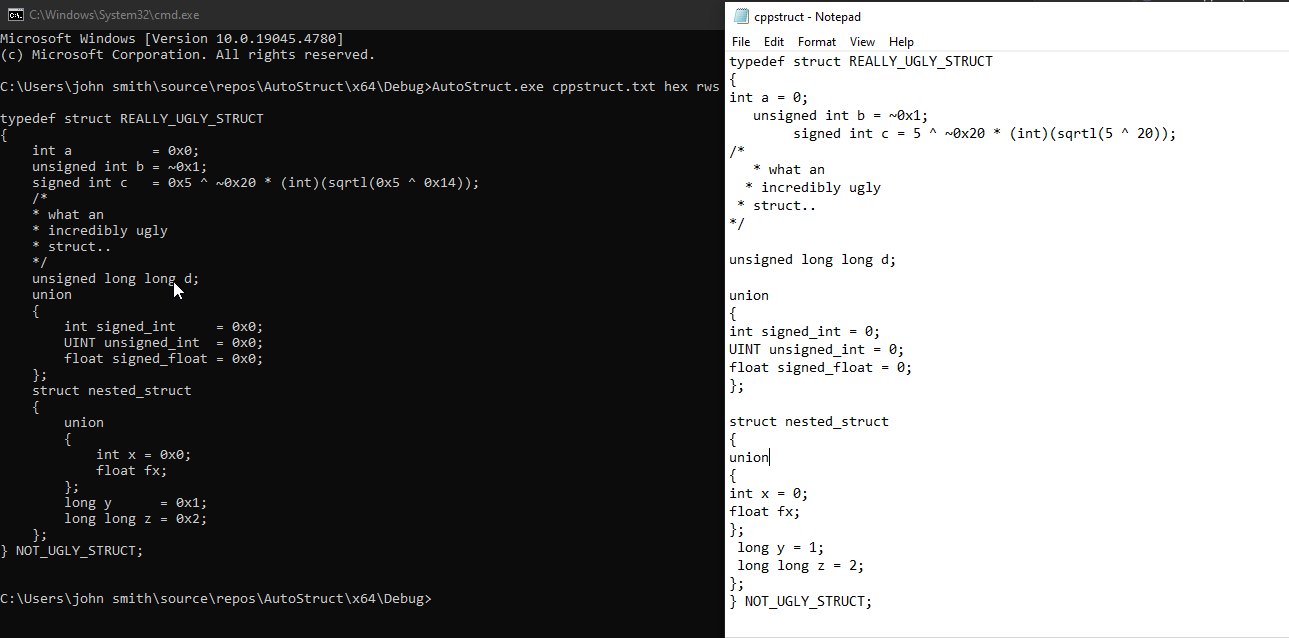
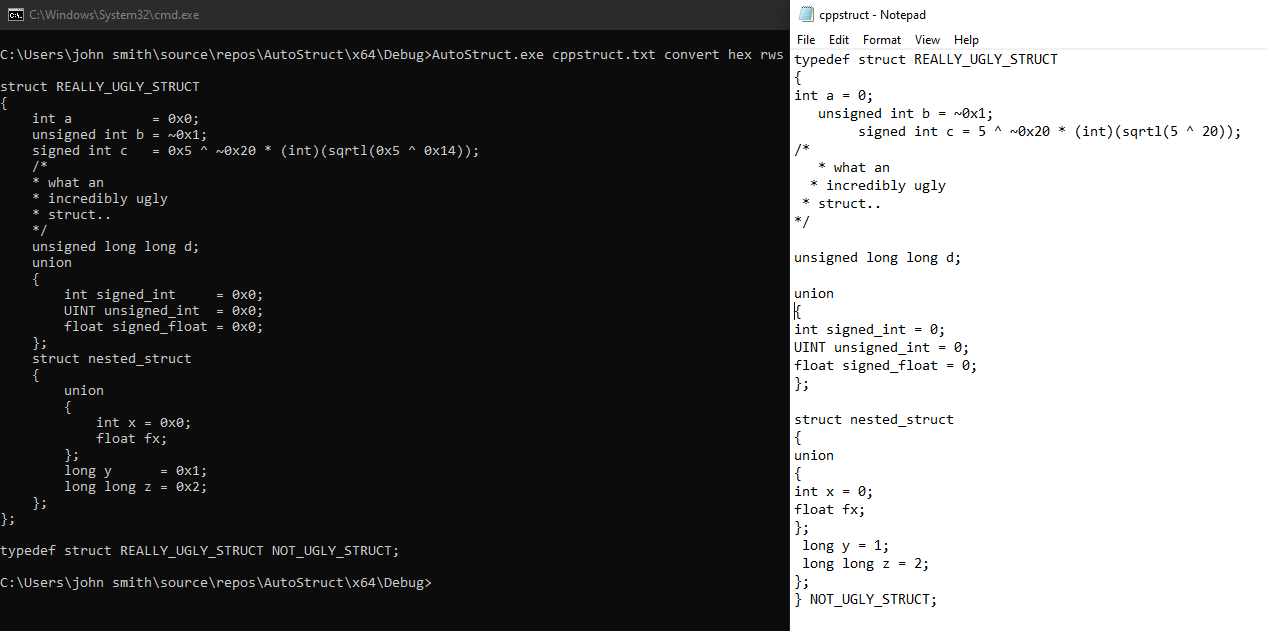
bug fixes and optimizations

diff --git a/AutoStruct/main.cpp b/AutoStruct/main.cpp
@@ -4,10 +4,10 @@
 
 enum PROCESSING_FLAGS
 {
-	DecToHex         = 1,
-	RemoveWhitespace = 2,
-	ConvertTypedef   = 4,
-	HasTypedef       = 8
+	DecToHex   = 1,
+	RemoveWs   = 2,
+	CppConversion     = 4,
+	HasTypedef = 8
 };
 
 struct LineData
@@ -21,18 +21,21 @@ void PrintCppData(std::vector<LineData>& lines, std::vector<size_t>& AlignmentVa
 	for (LineData& data : lines)
 	{
 		std::string& line = data.line;
-		const size_t EqualPos = line.find_first_of('=');
-		const size_t FurthestEqual = AlignmentValues[data.AlignmentIndex];
+		size_t EqualPos = line.find_first_of('=');
 
-		if (EqualPos != npos && EqualPos - 1 < FurthestEqual)
+		if (EqualPos != npos)
 		{
-			line.insert(EqualPos, FurthestEqual - EqualPos, ' ');
+			const size_t FurthestEqual = AlignmentValues[data.AlignmentIndex];
+			if (EqualPos - 1 < FurthestEqual)
+			{
+				line.insert(EqualPos, FurthestEqual - EqualPos, ' ');
+			}
 		}
-
+		
 		std::cout << line << '\n';
 	}
 
-	if (!(flags & HasTypedef) || flags & ConvertTypedef)
+	if (!(flags & HasTypedef) || flags & CppConversion)
 	{
 		std::cout << "};\n";
 	}
@@ -123,7 +126,7 @@ void HandleCppData(std::ifstream& file, std::string& line, int flags)
 			}
 			while (strcmp(line.substr(pos).c_str(), "*/"));
 		}
-		else if (flags & RemoveWhitespace && pos == npos && line.find(';') == npos && line.find('=') == npos && line.find('u') == npos && line.find('s') == npos && line.find('{') == npos)
+		else if (flags & RemoveWs && pos == npos && line.find(';') == npos && line.find('=') == npos && line.find('u') == npos && line.find('s') == npos && line.find('{') == npos)
 		{
 			continue;
 		}
@@ -153,16 +156,25 @@ void HandleCppData(std::ifstream& file, std::string& line, int flags)
 		// Aligning members and converting decimal values to hex if requested
 
 		pos = line.find_first_of('=');
+
 		if (pos != npos)
 		{
-			if (pos > AlignmentValues.back())
+			if (flags & CppConversion)
 			{
-				AlignmentValues.back() = pos;
+				--pos;
+				line.erase(pos, line.find_first_of(';') - pos);
 			}
-
-			if (flags & DecToHex)
+			else
 			{
-				CvtToHex(line, pos + 2);
+				if (pos > AlignmentValues.back())
+				{
+					AlignmentValues.back() = pos;
+				}
+
+				if (flags & DecToHex)
+				{
+					CvtToHex(line, pos + 2);
+				}
 			}
 		}
 
@@ -175,7 +187,7 @@ void HandleCppData(std::ifstream& file, std::string& line, int flags)
 		lines.emplace_back(LineData{ line, AlignmentValues.size() - 1 });
 	}
 
-	if (flags & HasTypedef && !(flags & ConvertTypedef))
+	if (flags & HasTypedef && !(flags & CppConversion))
 	{
 		std::getline(file, line);
 		lines.emplace_back(line);
@@ -281,10 +293,10 @@ int wmain(int argc, wchar_t* argv[])
 	for (int i = 2; i < argc; ++i)
 	{
 		if (_wcsicmp(argv[i], L"convert") == 0)
-			flags |= ConvertTypedef;
+			flags |= CppConversion;
 
 		else if (_wcsicmp(argv[i], L"rws") == 0)
-			flags |= RemoveWhitespace;
+			flags |= RemoveWs;
 
 		else if (_wcsicmp(argv[i], L"hex") == 0)
 			flags |= DecToHex;
@@ -311,7 +323,7 @@ int wmain(int argc, wchar_t* argv[])
 		{
 			flags |= HasTypedef;
 
-			if (flags & ConvertTypedef)
+			if (flags & CppConversion)
 			{
 				line.erase(0, 8);
 
@@ -343,7 +355,7 @@ int wmain(int argc, wchar_t* argv[])
 
 	// Formating typedefs to IDA local type insertion syntax
 
-	if (flags & ConvertTypedef)
+	if (flags & CppConversion)
 	{
 		size_t pos = line.find_first_not_of(' ', 1);
 
